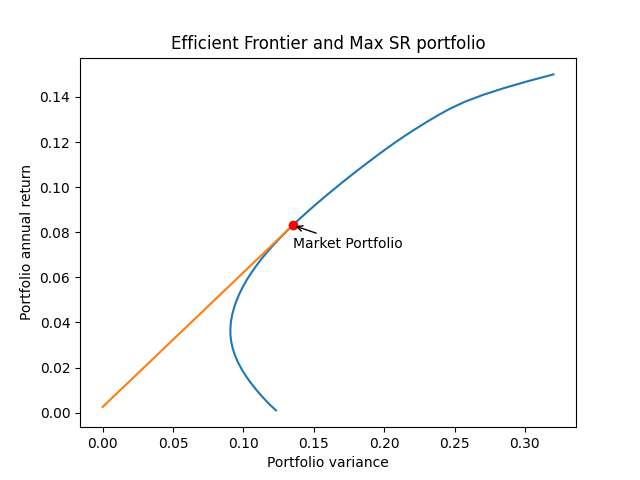
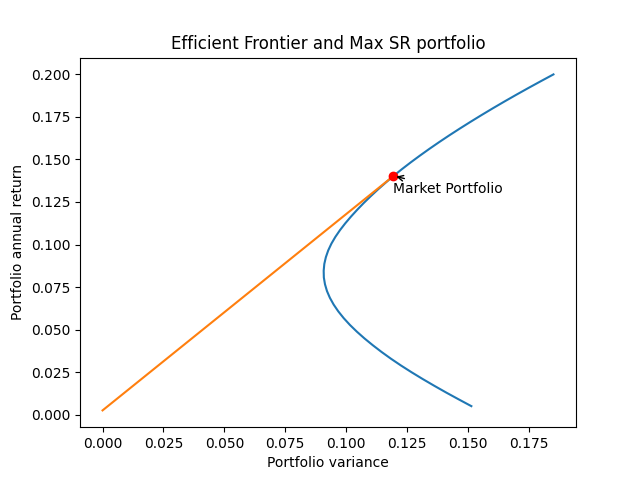
modified P3 to use the past 10 years data

diff --git a/Week07/Problem3.py b/Week07/Problem3.py
@@ -68,6 +68,12 @@ data["Date"] = pd.Series(map(lambda x:datetime.datetime.strptime(str(x), "%Y%m%d
 stocks["Date"] = pd.Series(map(lambda x:datetime.datetime.strptime(x, "%m/%d/%Y"), stocks["Date"]))
 mom["Date"] = pd.Series(map(lambda x:datetime.datetime.strptime(str(x), "%Y%m%d"), mom["Date"]))
 
+# get past 10 years history data
+startdate_str = "20120131"
+data = data[data["Date"]>datetime.datetime.strptime(startdate_str, "%Y%m%d")]
+stocks = stocks[stocks["Date"]>datetime.datetime.strptime(startdate_str, "%Y%m%d")]
+mome = mom[mom["Date"]>datetime.datetime.strptime(startdate_str, "%Y%m%d")]
+
 # divided by 100 to get like unit
 data[factor_list_FF3] = data[factor_list_FF3]/100 
 mom["Mom"] = mom["Mom"]/100
@@ -171,7 +177,7 @@ for i in range(len(rp)):
         optimal_v = vp[i]
 optimal_weight, vol = getMinVol(optimal_r)
 marketPortfolio = pd.DataFrame({"Stock": stock_list,"weights(%)": [round(x, 4) for x in (optimal_weight * 100)]})
-print(marketPortfolio.T)
+print(marketPortfolio)
 
 plt.cla()
 plt.plot(np.sqrt(vp), rp)
